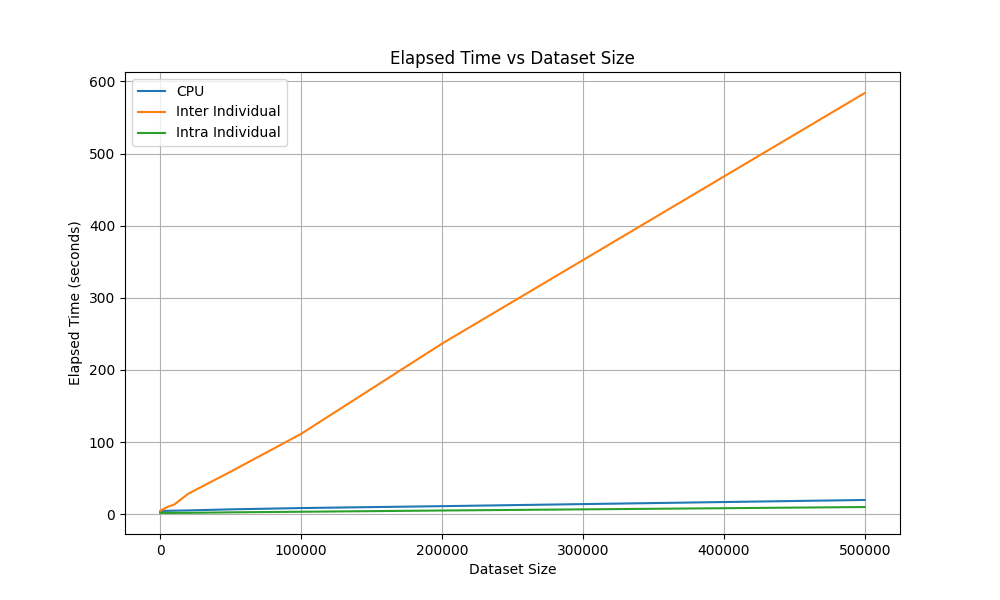
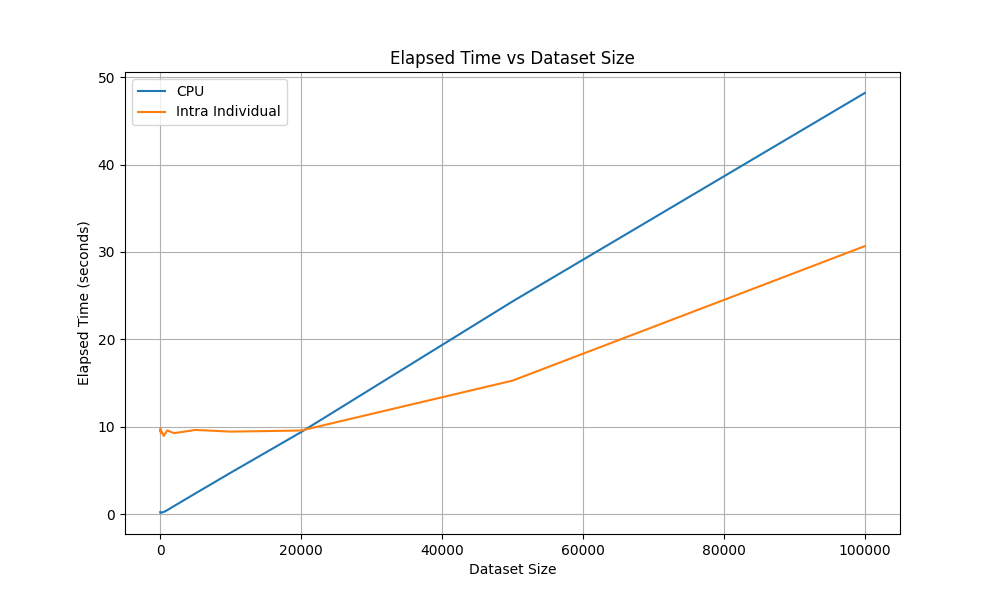
Update dataset size benchmark to only compare CPU and IntraIndividual runner generators with larger number of epochs

diff --git a/benchmark/benchmark_dataset_size.py b/benchmark/benchmark_dataset_size.py
@@ -27,8 +27,6 @@ DATASET_SIZES = [
     20000,
     50000,
     100000,
-    200000,
-    500000,
 ]
 
 def fit_model(dataset_size, runner_generator):
@@ -53,7 +51,7 @@ def fit_model(dataset_size, runner_generator):
     )
 
     # Fit model
-    solution, history = model.fit(ngenerations=2, nsupergenerations=2, nepochs=1, verbose=True)
+    solution, history = model.fit(ngenerations=2, nsupergenerations=2, nepochs=100, verbose=True)
 
     # Find elapsed time
     elapsed_time = time.time() - start_time
@@ -65,9 +63,6 @@ def fit_model(dataset_size, runner_generator):
 mse_values_cpu = []
 elapsed_times_cpu = []
 
-mse_values_interindividual = []
-elapsed_times_interindividual = []
-
 mse_values_intraindividual = []
 elapsed_times_intraindividual = []
 
@@ -78,11 +73,6 @@ for dataset_size in DATASET_SIZES:
     mse_values_cpu.append(mse)
     elapsed_times_cpu.append(elapsed_time)
 
-    mse, elapsed_time = fit_model(dataset_size, InterIndividualRunnerGenerator())
-    print(f'Inter Individual - Dataset Size: {dataset_size}, MSE: {mse}, Elapsed Time: {elapsed_time} seconds')
-    mse_values_interindividual.append(mse)
-    elapsed_times_interindividual.append(elapsed_time)
-
     mse, elapsed_time = fit_model(dataset_size, IntraIndividualRunnerGenerator())
     print(f'Intra Individual - Dataset Size: {dataset_size}, MSE: {mse}, Elapsed Time: {elapsed_time} seconds')
     mse_values_intraindividual.append(mse)
@@ -91,7 +81,6 @@ for dataset_size in DATASET_SIZES:
 # Plot MSE vs Dataset Size
 plt.figure(figsize=(10, 6))
 plt.plot(DATASET_SIZES, mse_values_cpu, label='CPU')
-plt.plot(DATASET_SIZES, mse_values_interindividual, label='Inter Individual')
 plt.plot(DATASET_SIZES, mse_values_intraindividual, label='Intra Individual')
 plt.xlabel('Dataset Size')
 plt.ylabel('Loss (MSE)')
@@ -103,7 +92,6 @@ plt.savefig('benchmark_mse_vs_dataset_size.png')
 # Plot Elapsed Time vs Dataset Size
 plt.figure(figsize=(10, 6))
 plt.plot(DATASET_SIZES, elapsed_times_cpu, label='CPU')
-plt.plot(DATASET_SIZES, elapsed_times_interindividual, label='Inter Individual')
 plt.plot(DATASET_SIZES, elapsed_times_intraindividual, label='Intra Individual')
 plt.xlabel('Dataset Size')
 plt.ylabel('Elapsed Time (seconds)')
